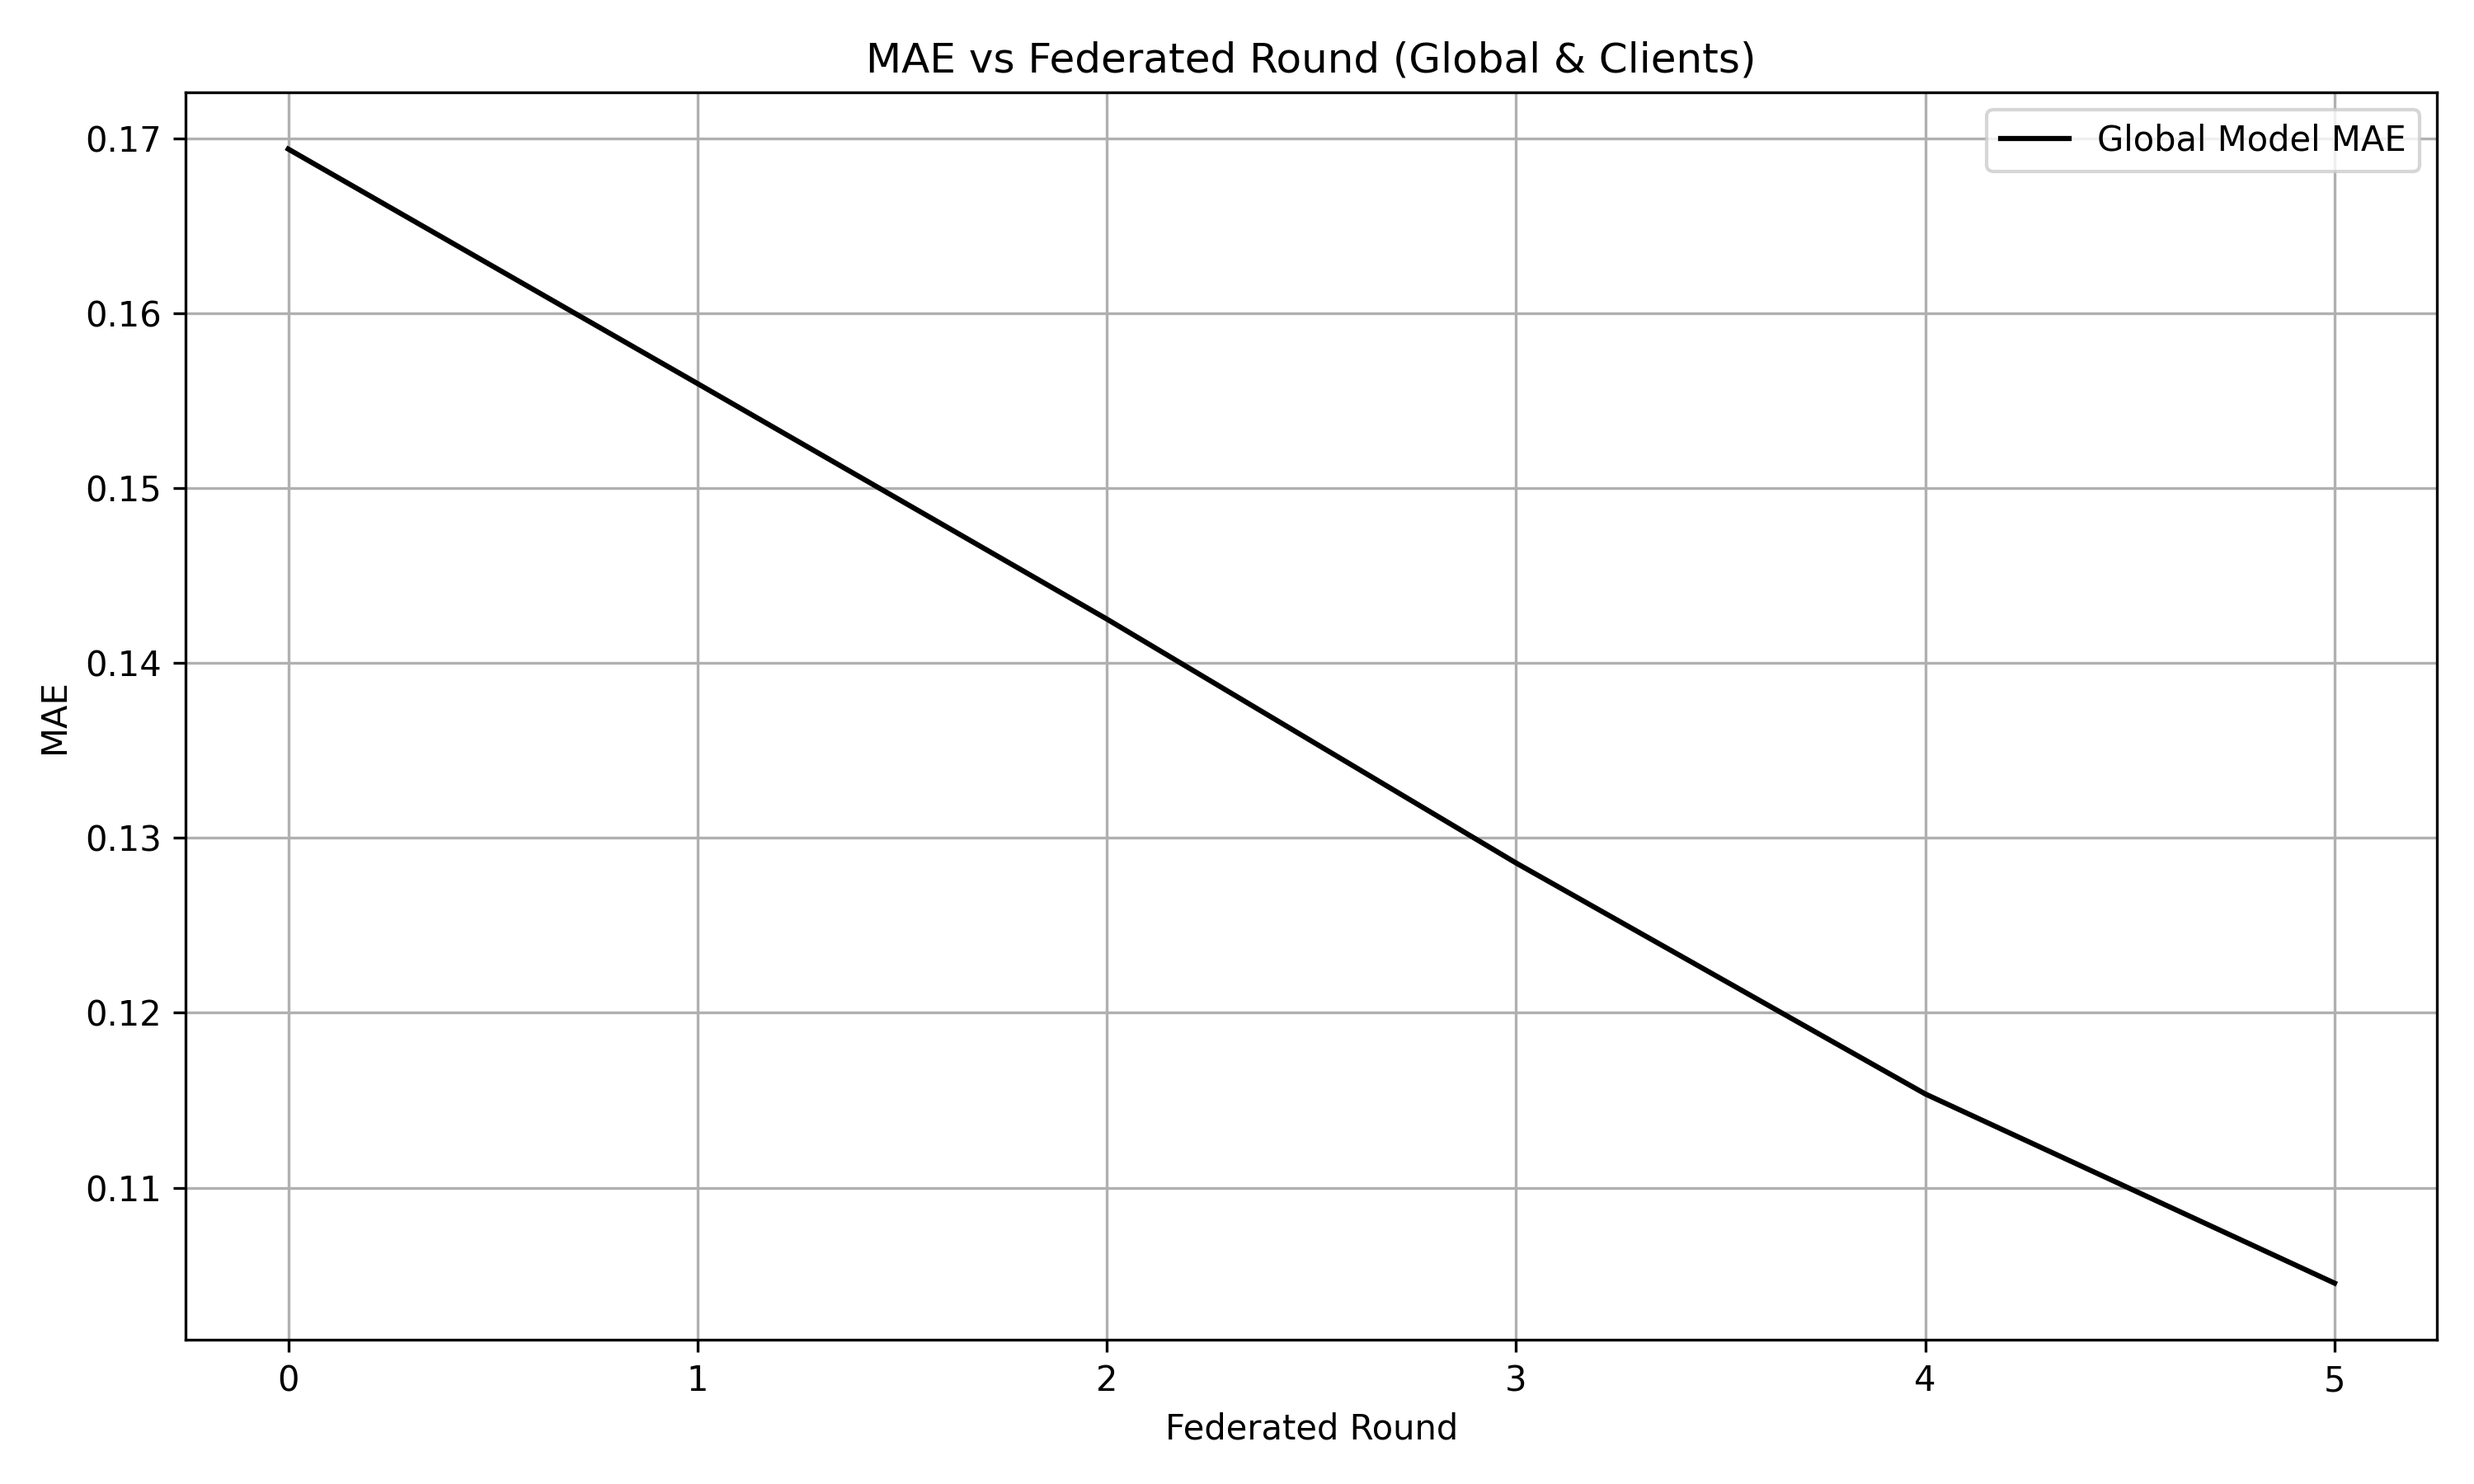
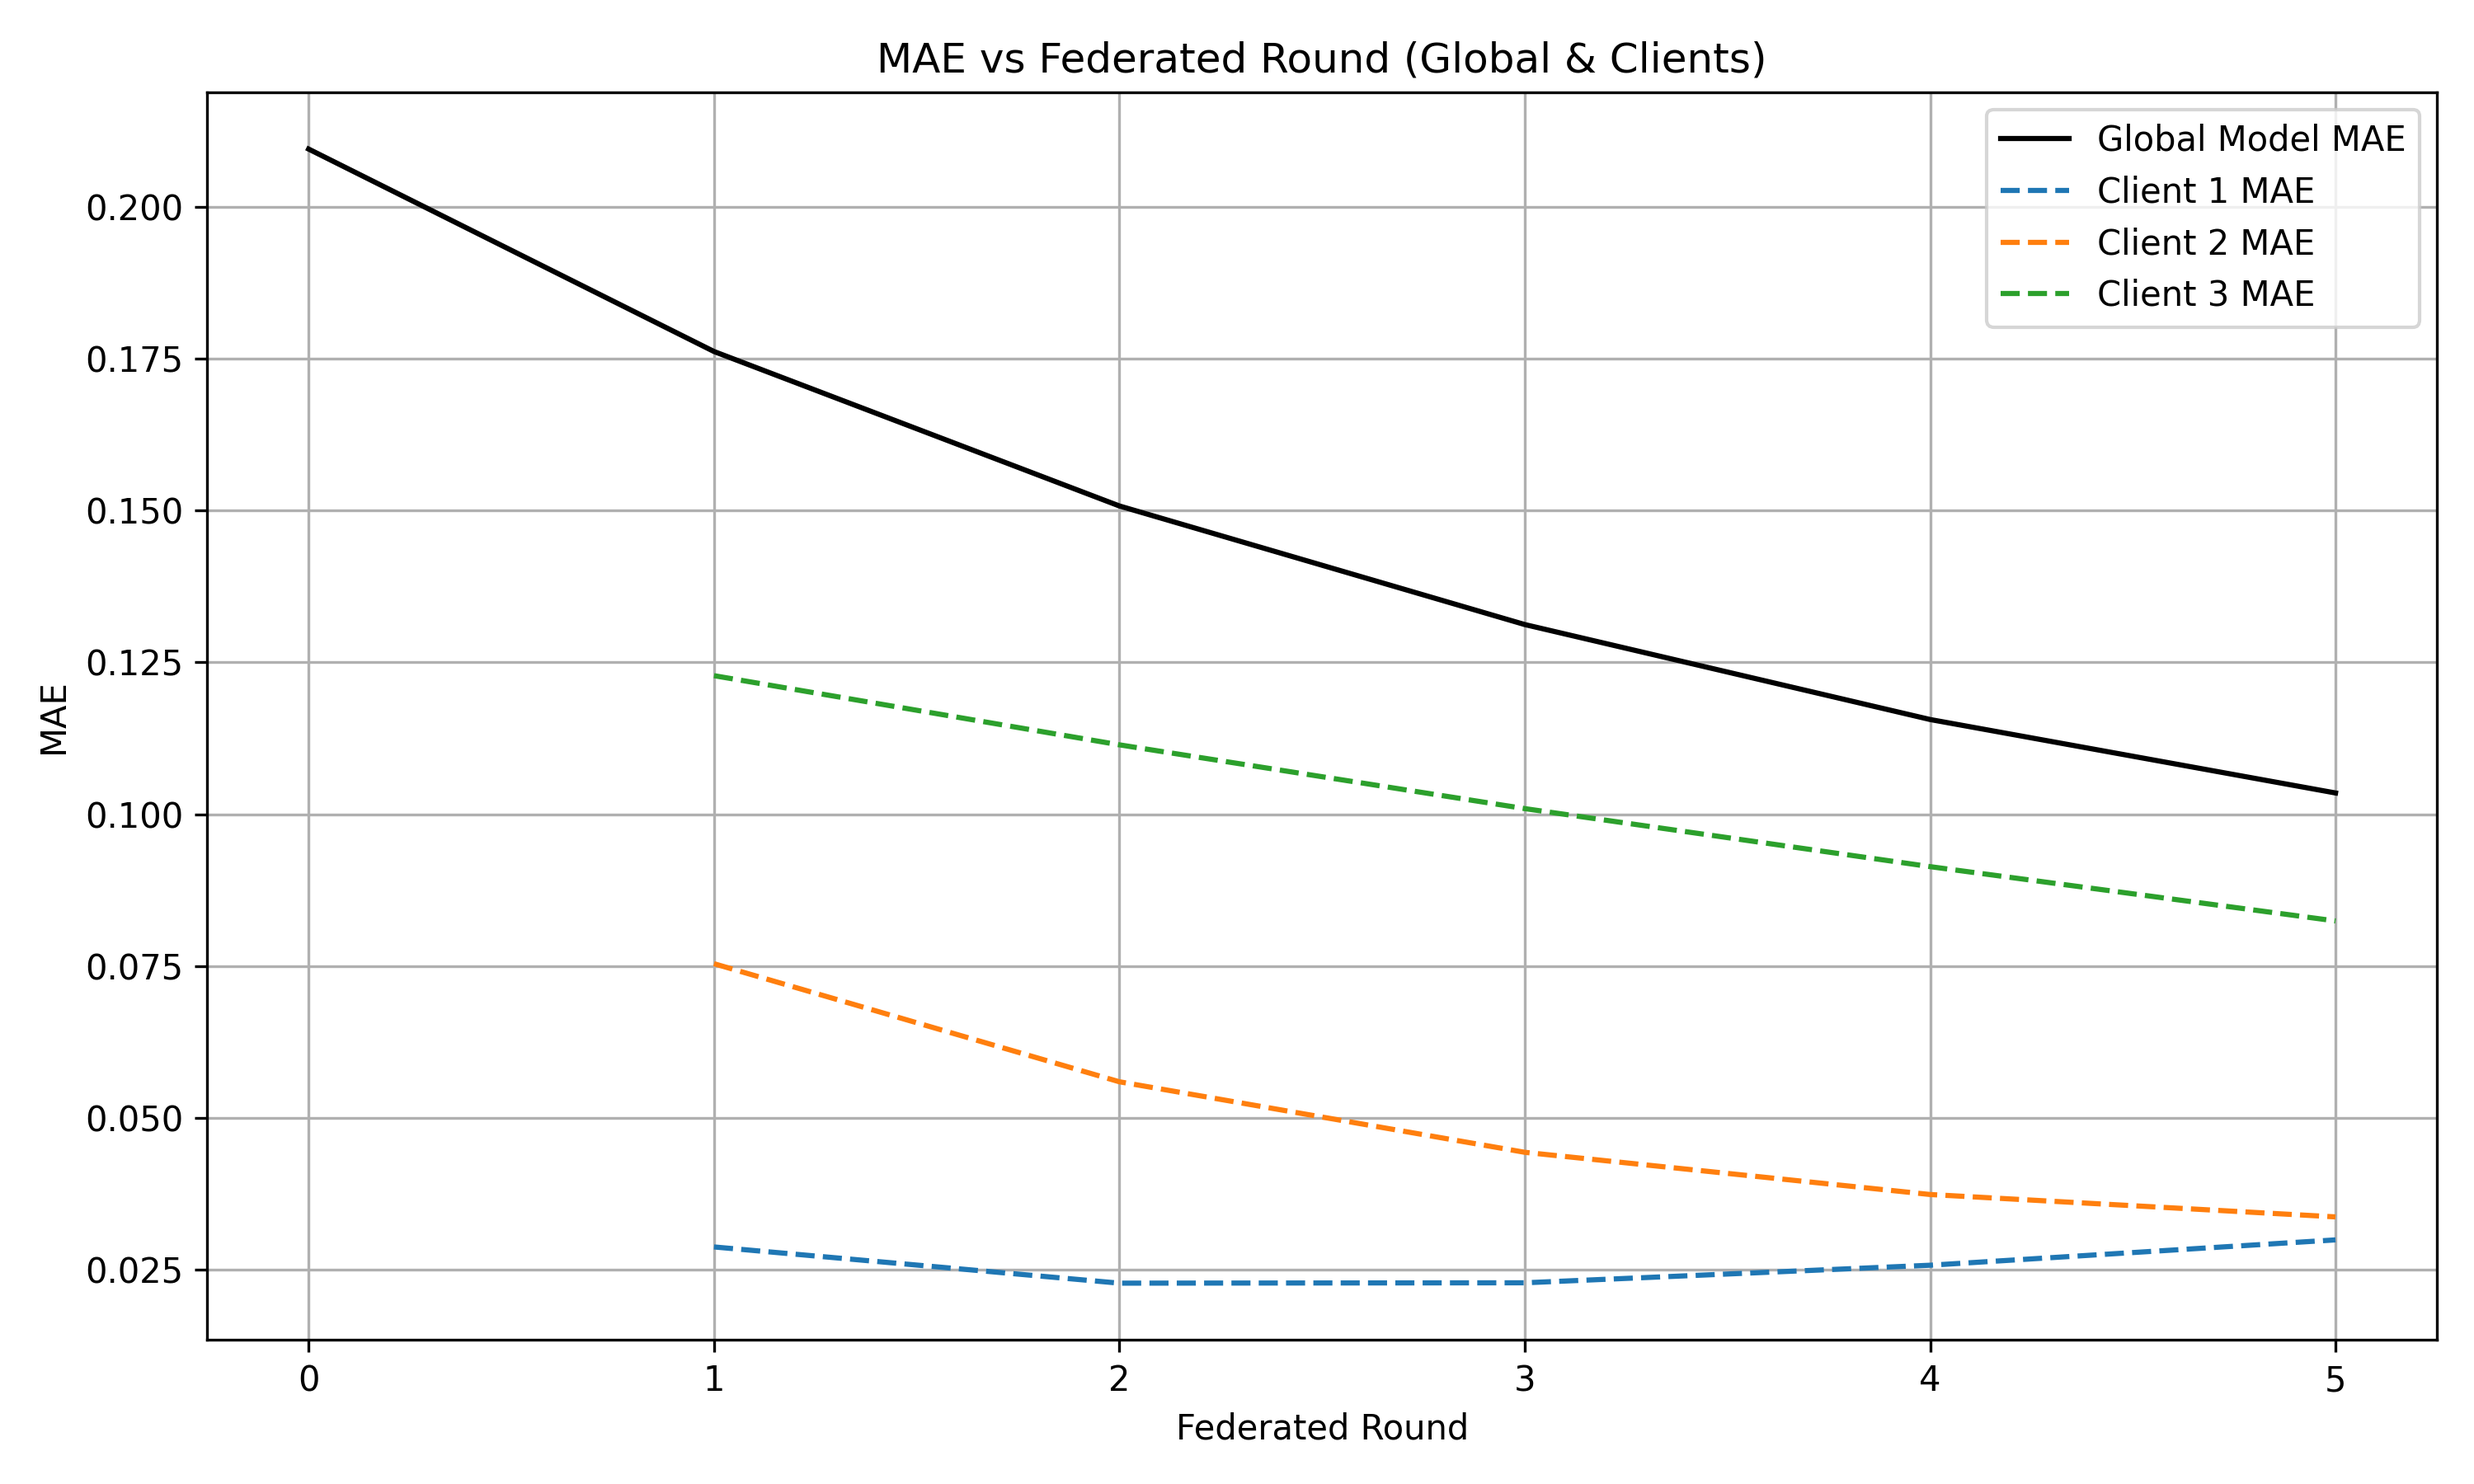
Plot metrics: Project setup

diff --git a/plot_metrics.py b/plot_metrics.py
@@ -6,9 +6,9 @@ from pathlib import Path
 log_dir = Path.cwd() / "log_metrics"
 global_path = log_dir / "global_eval_log.csv"
 client_paths = {
-    "Client 1": log_dir / "client_eval_log_1.csv",
-    "Client 2": log_dir / "client_eval_log_2.csv",
-    "Client 3": log_dir / "client_eval_log_3.csv",
+    "Client 1": log_dir / "client_eval_log_Client_1.csv",
+    "Client 2": log_dir / "client_eval_log_Client_2.csv",
+    "Client 3": log_dir / "client_eval_log_Client_3.csv",
 }
 
 # Load and convert global MAE

diff --git a/timeseries_flwr_app/customfedadam_strategy.py b/timeseries_flwr_app/customfedadam_strategy.py
@@ -36,7 +36,7 @@ class CustomFedAdam(FedAdam):
             writer.writerows(self.global_log)
 
     def store_results_and_log(self, server_round: int, tag: str, results_dict: dict):
-        """A helper method that stores results and logs them to CSV."""
+        """federated_evaluate - A helper method that stores results and logs them to CSV."""
         # Store for internal tracking (e.g., Flower History)
         #self._store_results(tag=tag, results_dict={"round": server_round, **results_dict})
 

diff --git a/timeseries_flwr_app/client_app.py b/timeseries_flwr_app/client_app.py
@@ -20,7 +20,8 @@ def log_client_metrics(client_id, round_num, loss, mae):
     # Full path to log file
     filename = log_dir / f"client_eval_log_{client_id}.csv"
 
-    file_exists = Path(filename).exists()
+    # Check whether file exists and is non-empty
+    file_exists = Path(filename).exists() and filename.stat().st_size > 0
     with open(filename, "a", newline="", encoding="utf-8") as f:
         writer = csv.writer(f)
         if not file_exists:
